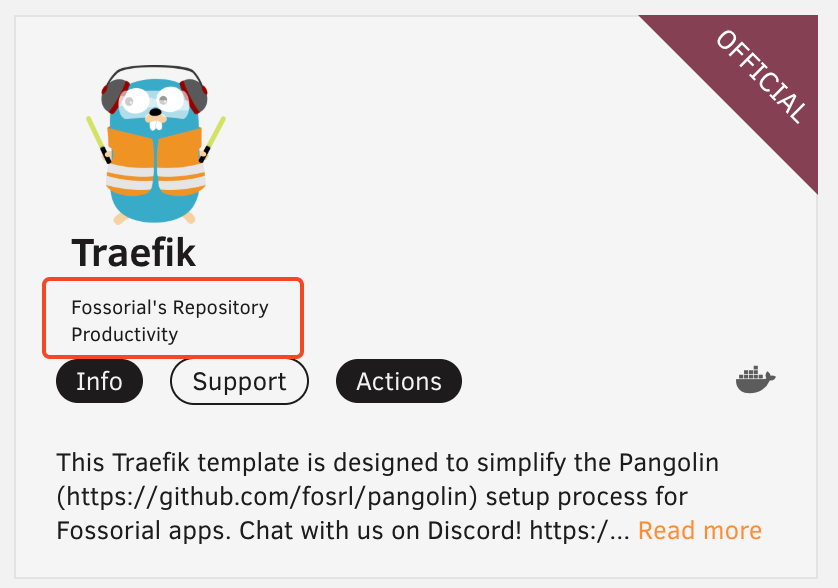
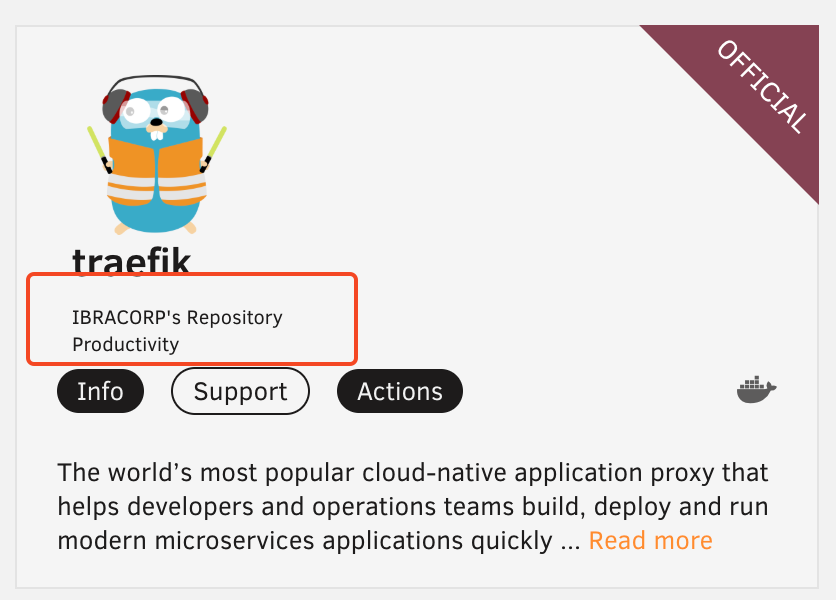
remove custom traefik template from unraid guide

diff --git a/packages/docusaurus/docs/02-Getting Started/04-Manual Install Guides/02-unraid.md b/packages/docusaurus/docs/02-Getting Started/04-Manual Install Guides/02-unraid.md
@@ -4,15 +4,13 @@
 
 Installing Pangolin, Gerbil, and Traefik on Unraid assumes you are able to port forward on the network running these servers. If you're behind CGNAT, install Pangolin a VPS and install Newt on your Unraid server to bypass the port forwarding restriction.
 
-**If you just want to install Newt on Unraid, and have no interest in running Pangolin and its components, there is a Newt container available in the Community Apps store.**
+**If you just want to install Newt on Unraid, and have no interest in running Pangolin and its components, there is a Newt container available in the Community Apps store. See the Newt install instructions for Unraid [here](https://docs.fossorial.io/Newt/install#unraid).**
 
 :::
 
 :::note
 
 You can use an existing Traefik installation should you have one, but it will require more manual/custom configuration. This guide will focus on setting up Traefik from scratch to work with our system, but you're free to modify the Traefik configuration as much as you'd like.
-
-If you're installing from scratch, we provide a custom Traefik template with some defaults already set. Our template still uses the official Traefik images. However, you're able to use any Traefik template you would like, such as the popular one by IBRACORP.
 
 :::
 
@@ -121,7 +119,7 @@ Before starting with Traefik, shut down the Pangolin container.
 
 #### 1. Install Traefik via the CA Store
 
-This section will use the Traefik template from the "Fossorial" repository. It still uses the official Traefik container image. If you already have a Traefik installation running, you should manually configure your Traefik config to work with Pangolin. Take a look at the Traefik files in the Docker Compose guide to see what to add to your config. Also, if you'd prefer to use another Traefik template in the Unraid store such as IBRACORP's you still can. You should just make sure to have the needed variables, ports, paths, etc, as described in this guide.
+This section will use the Traefik template from the "IBRACORP" repository. If you already have a Traefik installation running, you should manually configure your Traefik config to work with Pangolin. Take a look at the Traefik files in the Docker Compose guide to see what to add to your config.
 
 <p align="center">
     <img src={require("./img/traefik_repo.png").default} alt="Traefik Repo" style={{
@@ -132,21 +130,31 @@ This section will use the Traefik template from the "Fossorial" repository. It s
 
 #### 2. Configure Traefik
 
-Set the network to the one you created earlier.
-
 <p align="center">
     ![graphic](./img/traefik_config.png)
 </p>
 
-Please refer to the official Traefik docs for more information on the Traefik configuration beyond this guide.
+_Please refer to the official Traefik docs for more information on the Traefik configuration beyond this guide._
 
-The only important considerations here:
+**Match your config to the one above. You will have to remove some of the default variables in the template that are not needed. You can always add them back if you need them later.**
+
+Network Type:
+
+Set the network type to the one you created earlier.
+
+Post Arguments:
+
+Tell Traefik where the config file is located by adding the following to the "Post Arguments" field:
+
+```bash
+--configFile=/etc/traefik/traefik_config.yml
+```
 
 Config Folder:
 
 If you're using the Traefik config generated by Pangolin, point this to the same appdata path as Pangolin, but append `/traefik`, like this: `<appdata>/config/traefik`.
 
-Lets Encrypt Certs:
+Lets Encrypt (Host Path 2 in screenshot):
 
 Traefik will store the certification information here. You can make this path anywhere you want. For simplicity, we're placing it in the same config path at `<appdata>/config/letsencrypt`.
 
